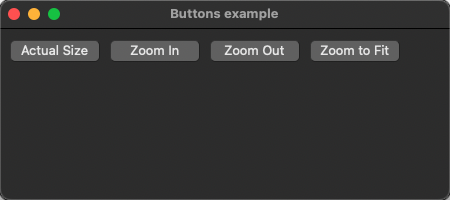
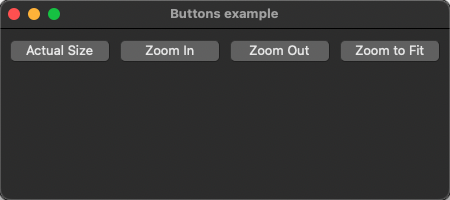
add pictures

Changed region(s): [[0.0311, 0.18, 0.9956, 0.33]]

diff --git a/examples/xtd.forms.examples/controls/buttons/src/buttons.cpp b/examples/xtd.forms.examples/controls/buttons/src/buttons.cpp
@@ -4,9 +4,9 @@ using namespace xtd::forms;
 
 int main() {
   auto main_form = control::create<form>("Buttons example", {100, 200}, {450, 200});
-  auto actual_size_button = buttons::actual_size(*main_form, {10, 10}, {90, 25});
-  auto zoom_in_button = buttons::zoom_in(*main_form, {110, 10}, {90, 25});
-  auto zoom_out_button = buttons::zoom_out(*main_form, {210, 10}, {90, 25});
-  auto zoom_to_fit_button = buttons::zoom_to_fit(*main_form, {310, 10}, {90, 25});
+  auto actual_size_button = buttons::actual_size(*main_form, {10, 10}, {100, 25});
+  auto zoom_in_button = buttons::zoom_in(*main_form, {120, 10}, {100, 25});
+  auto zoom_out_button = buttons::zoom_out(*main_form, {230, 10}, {100, 25});
+  auto zoom_to_fit_button = buttons::zoom_to_fit(*main_form, {340, 10}, {100, 25});
   application::run(*main_form);
 }
